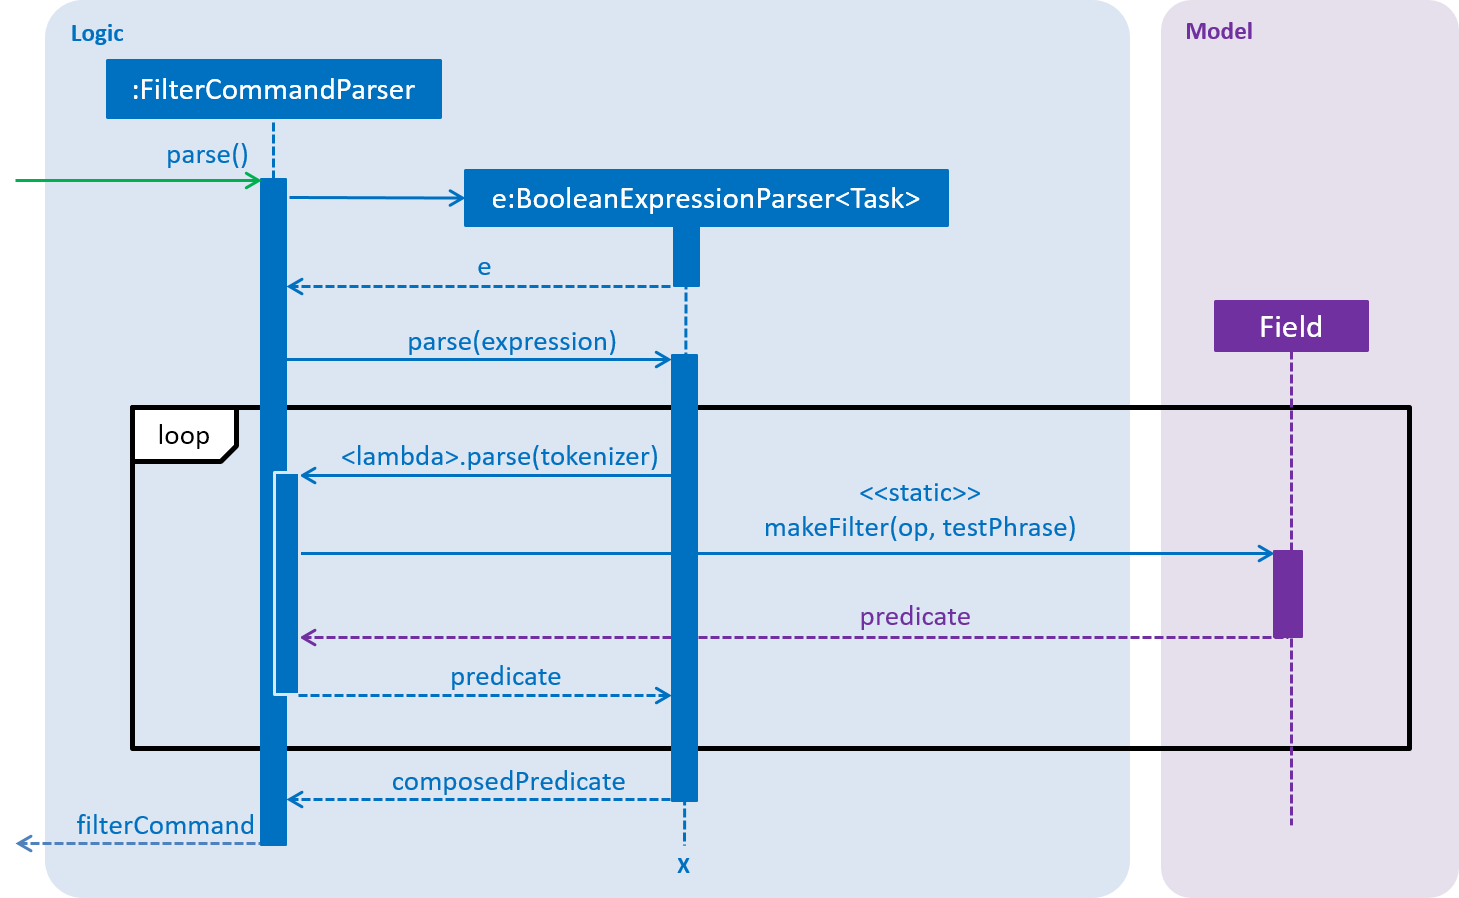
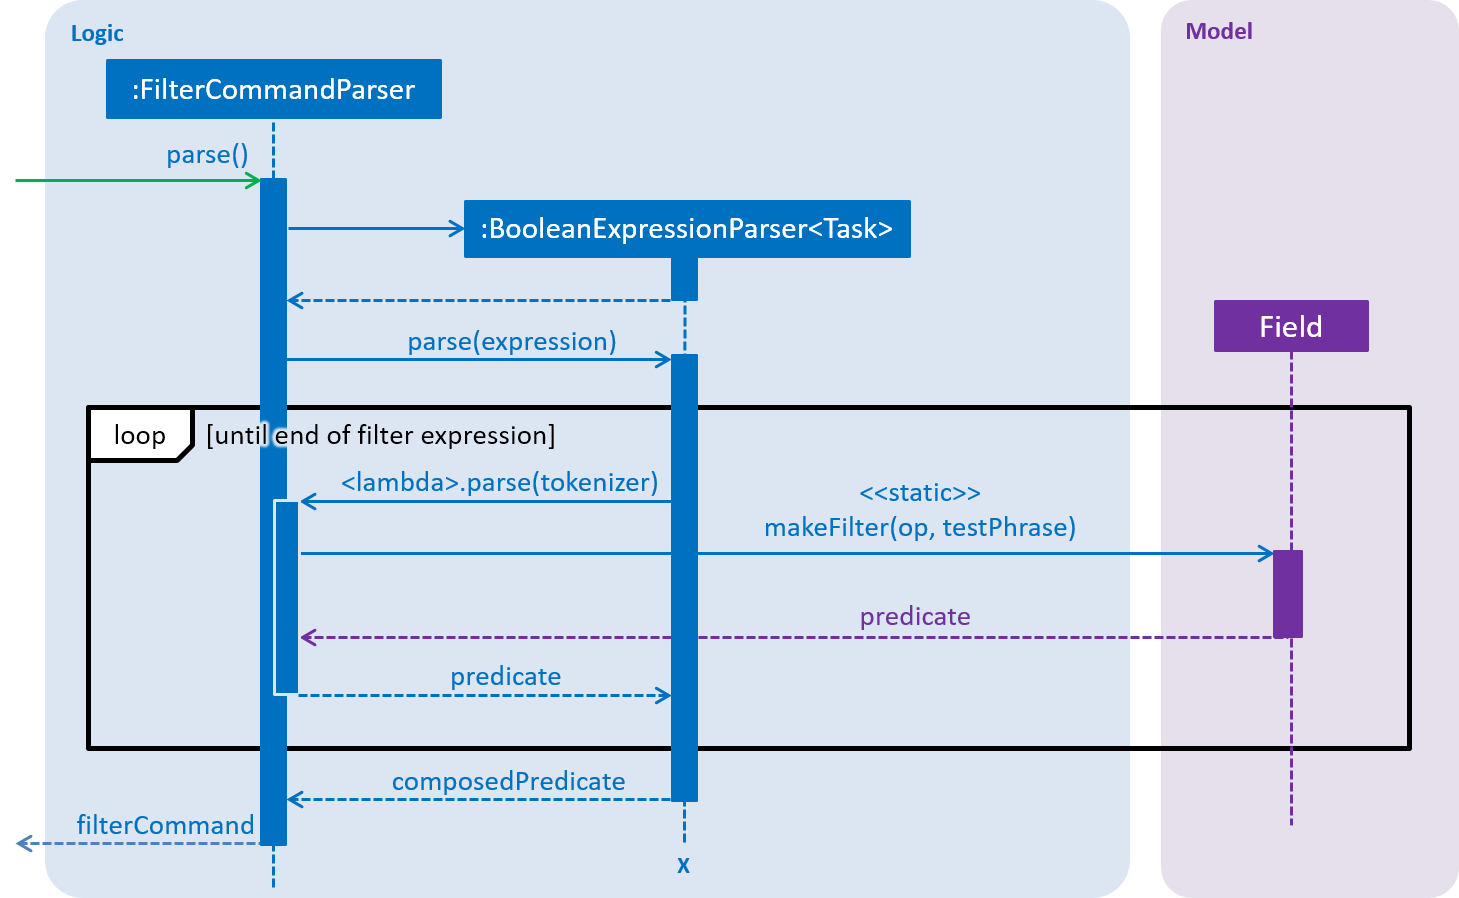
Rebuild pages at b0dab1d311fea3625518b826826fd3e513df9803

Changed region(s): [[0.1851, 0.1871, 0.6477, 0.343], [0.0617, 0.4365, 0.4626, 0.8419]]

diff --git a/team/btzy.html b/team/btzy.html
@@ -642,7 +642,7 @@ The second component in the list above also accepts a filter unit that contains 
 </div>
 </div>
 <div class="paragraph">
-<p>The above diagram shows the simplified sequence of operations to parse a filter expression into a predicate for non-set fields.  Take note of the following simplifications in the sequence diagram above:</p>
+<p>The above diagram shows the simplified sequence of operations to parse a filter expression into a predicate for non-set-based fields.  Take note of the following simplifications in the sequence diagram above:</p>
 </div>
 <div class="ulist">
 <ul>
@@ -805,6 +805,11 @@ The <code>StringTokenizer</code> class is also used in two other places&#8201;&#
 <div class="paragraph">
 <p>The following diagram is describes a filter unit that is specified using the extended full syntax for sets:</p>
 </div>
+<div class="imageblock">
+<div class="content">
+<img src="../images/FilterUnitDiagramSet.png" alt="FilterUnitDiagramSet" width="250">
+</div>
+</div>
 <div class="paragraph">
 <p>As shown in the diagram above, a filter unit (using the full syntax or extended syntax) consists of these parts:</p>
 </div>
@@ -962,25 +967,10 @@ The rules for quoted strings for the string tokenizer applies here as well, beca
 <div class="sect4">
 <h5 id="set-operator"><a class="link" href="#set-operator">Set operator</a></h5>
 <div class="paragraph">
-<p>Set-based fields can specify an additional level of comparison - how the task&#8217;s set compares with the specified set.  It is distinct from the filter operator because the filter operator is used to compare each individual item in the set (in the context of the given field), while the set operator is used to compare at the set level (which is same regardless of the given field).</p>
+<p>Set-based fields can specify an additional level of comparison - how the task&#8217;s set compares with the specified set.  It is distinct from the filter operator because the filter operator is used to compare each individual item in the set (in the context of the given field), while the set operator is used to compare at the set level (which is same regardless of which field is being compared).</p>
 </div>
 <div class="paragraph">
-<p>For set-based fields (e.g. tags), the <code>&lt;</code>, <code>=</code>, <code>&gt;</code> set operators represent <em>subset</em>, <em>equivalence</em>, and <em>superset</em> relations respectively.  Each individual item is compared using the specified filter operator as specified in the previous <em>Filter operator</em> section.</p>
-</div>
-<div class="paragraph">
-<p>Just like the filter operator, there is a convenience set operator (<code>:</code>), and it is an alias for <code>&gt;</code>.</p>
-</div>
-<div class="admonitionblock note">
-<table>
-<tr>
-<td class="icon">
-<i class="fa icon-note" title="Note"></i>
-</td>
-<td class="content">
-The set operator is orthogonal to the filter operator, and hence they may be combined in any way.  Furthermore, when the set operator is omitted for a set-based field, the convenience set operator is implied.
-</td>
-</tr>
-</table>
+<p>For set-based fields (e.g. tags), the filter unit parser does not invoke the field-specific parser directly.  Instead, control goes through the set parser, which is described in the <em>Set parser</em> section below.</p>
 </div>
 </div>
 <div class="sect4">
@@ -1002,7 +992,36 @@ The set operator is orthogonal to the filter operator, and hence they may be com
 <div class="sect3">
 <h4 id="set-parser"><a class="link" href="#set-parser">Set parser</a></h4>
 <div class="paragraph">
-<p>The set parser is implemented in the <code>makeFilter()</code> method of the <code>seedu.address.model.util.SetUtil</code> class.  It parses the comma-separated list (i.e. the test phrase) using a new instance of <code>StringTokenizer</code>, and then uses reflection to invoke the relevant field-specific parser for each item in the comma-separated list.</p>
+<p>The set parser tokenizes the given test phrase, and feeds each item into the field-specific parser separately.</p>
+</div>
+<div class="paragraph">
+<p>The <code>&lt;</code>, <code>=</code>, <code>&gt;</code> set operators represent <em>subset</em>, <em>equivalence</em>, and <em>superset</em> relations respectively.  Each individual item is compared using the specified filter operator as specified in the previous <em>Filter operator</em> section.</p>
+</div>
+<div class="paragraph">
+<p>Just like the filter operator, there is a convenience set operator (<code>:</code>), and it is an alias for <code>&gt;</code>.</p>
+</div>
+<div class="admonitionblock note">
+<table>
+<tr>
+<td class="icon">
+<i class="fa icon-note" title="Note"></i>
+</td>
+<td class="content">
+The set operator is orthogonal to the filter operator, and hence they may be combined in any way.  Furthermore, when the set operator is omitted for a set-based field, the convenience set operator is implied.
+</td>
+</tr>
+</table>
+</div>
+<div class="paragraph">
+<p>The set parser is implemented in the <code>makeFilter()</code> method of the <code>seedu.address.model.util.SetUtil</code> class.  It parses the comma-separated list (i.e. the test phrase) using a new instance of <code>StringTokenizer</code>, and then uses reflection to invoke the relevant field-specific parser for each item in the comma-separated list.  This is illustrated in the sequence diagram below:</p>
+</div>
+<div class="imageblock">
+<div class="content">
+<img src="../images/FilterOperationSequenceDiagramSet.png" alt="FilterOperationSequenceDiagramSet" width="800">
+</div>
+</div>
+<div class="paragraph">
+<p>As with the sequence diagram for non-set-based fields, the above diagram is simplified and omits details about how the test phrase is split into tokens using a new <code>StringTokenizer</code> instance.  "Field" represents any filterable set-based field&#8201;&#8212;&#8201;<code>Tag</code> or <code>Attachment</code>.</p>
 </div>
 <div class="admonitionblock note">
 <table>
@@ -1237,4 +1256,4 @@ In total, there are around 15 distinct kinds of error conditions when parsing a 
 </div>
 </div>
 </div>
-</div></div><div id="footer"><div class="container"><div id="footer-text">Last updated 2018-11-06 15:25:14 UTC</div></div></div></body></html>
+</div></div><div id="footer"><div class="container"><div id="footer-text">Last updated 2018-11-06 15:55:43 UTC</div></div></div></body></html>

diff --git a/DeveloperGuide.html b/DeveloperGuide.html
@@ -1531,7 +1531,7 @@ The second component in the list above also accepts a filter unit that contains 
 </div>
 </div>
 <div class="paragraph">
-<p>The above diagram shows the simplified sequence of operations to parse a filter expression into a predicate for non-set fields.  Take note of the following simplifications in the sequence diagram above:</p>
+<p>The above diagram shows the simplified sequence of operations to parse a filter expression into a predicate for non-set-based fields.  Take note of the following simplifications in the sequence diagram above:</p>
 </div>
 <div class="ulist">
 <ul>
@@ -1694,6 +1694,11 @@ The <code>StringTokenizer</code> class is also used in two other places&#8201;&#
 <div class="paragraph">
 <p>The following diagram is describes a filter unit that is specified using the extended full syntax for sets:</p>
 </div>
+<div class="imageblock">
+<div class="content">
+<img src="images/FilterUnitDiagramSet.png" alt="FilterUnitDiagramSet" width="250">
+</div>
+</div>
 <div class="paragraph">
 <p>As shown in the diagram above, a filter unit (using the full syntax or extended syntax) consists of these parts:</p>
 </div>
@@ -1851,25 +1856,10 @@ The rules for quoted strings for the string tokenizer applies here as well, beca
 <div class="sect4">
 <h5 id="set-operator"><a class="link" href="#set-operator">4.6.4.4. Set operator</a></h5>
 <div class="paragraph">
-<p>Set-based fields can specify an additional level of comparison - how the task&#8217;s set compares with the specified set.  It is distinct from the filter operator because the filter operator is used to compare each individual item in the set (in the context of the given field), while the set operator is used to compare at the set level (which is same regardless of the given field).</p>
+<p>Set-based fields can specify an additional level of comparison - how the task&#8217;s set compares with the specified set.  It is distinct from the filter operator because the filter operator is used to compare each individual item in the set (in the context of the given field), while the set operator is used to compare at the set level (which is same regardless of which field is being compared).</p>
 </div>
 <div class="paragraph">
-<p>For set-based fields (e.g. tags), the <code>&lt;</code>, <code>=</code>, <code>&gt;</code> set operators represent <em>subset</em>, <em>equivalence</em>, and <em>superset</em> relations respectively.  Each individual item is compared using the specified filter operator as specified in the previous <em>Filter operator</em> section.</p>
-</div>
-<div class="paragraph">
-<p>Just like the filter operator, there is a convenience set operator (<code>:</code>), and it is an alias for <code>&gt;</code>.</p>
-</div>
-<div class="admonitionblock note">
-<table>
-<tr>
-<td class="icon">
-<i class="fa icon-note" title="Note"></i>
-</td>
-<td class="content">
-The set operator is orthogonal to the filter operator, and hence they may be combined in any way.  Furthermore, when the set operator is omitted for a set-based field, the convenience set operator is implied.
-</td>
-</tr>
-</table>
+<p>For set-based fields (e.g. tags), the filter unit parser does not invoke the field-specific parser directly.  Instead, control goes through the set parser, which is described in the <em>Set parser</em> section below.</p>
 </div>
 </div>
 <div class="sect4">
@@ -1891,7 +1881,36 @@ The set operator is orthogonal to the filter operator, and hence they may be com
 <div class="sect3">
 <h4 id="set-parser"><a class="link" href="#set-parser">4.6.5. Set parser</a></h4>
 <div class="paragraph">
-<p>The set parser is implemented in the <code>makeFilter()</code> method of the <code>seedu.address.model.util.SetUtil</code> class.  It parses the comma-separated list (i.e. the test phrase) using a new instance of <code>StringTokenizer</code>, and then uses reflection to invoke the relevant field-specific parser for each item in the comma-separated list.</p>
+<p>The set parser tokenizes the given test phrase, and feeds each item into the field-specific parser separately.</p>
+</div>
+<div class="paragraph">
+<p>The <code>&lt;</code>, <code>=</code>, <code>&gt;</code> set operators represent <em>subset</em>, <em>equivalence</em>, and <em>superset</em> relations respectively.  Each individual item is compared using the specified filter operator as specified in the previous <em>Filter operator</em> section.</p>
+</div>
+<div class="paragraph">
+<p>Just like the filter operator, there is a convenience set operator (<code>:</code>), and it is an alias for <code>&gt;</code>.</p>
+</div>
+<div class="admonitionblock note">
+<table>
+<tr>
+<td class="icon">
+<i class="fa icon-note" title="Note"></i>
+</td>
+<td class="content">
+The set operator is orthogonal to the filter operator, and hence they may be combined in any way.  Furthermore, when the set operator is omitted for a set-based field, the convenience set operator is implied.
+</td>
+</tr>
+</table>
+</div>
+<div class="paragraph">
+<p>The set parser is implemented in the <code>makeFilter()</code> method of the <code>seedu.address.model.util.SetUtil</code> class.  It parses the comma-separated list (i.e. the test phrase) using a new instance of <code>StringTokenizer</code>, and then uses reflection to invoke the relevant field-specific parser for each item in the comma-separated list.  This is illustrated in the sequence diagram below:</p>
+</div>
+<div class="imageblock">
+<div class="content">
+<img src="images/FilterOperationSequenceDiagramSet.png" alt="FilterOperationSequenceDiagramSet" width="800">
+</div>
+</div>
+<div class="paragraph">
+<p>As with the sequence diagram for non-set-based fields, the above diagram is simplified and omits details about how the test phrase is split into tokens using a new <code>StringTokenizer</code> instance.  "Field" represents any filterable set-based field&#8201;&#8212;&#8201;<code>Tag</code> or <code>Attachment</code>.</p>
 </div>
 <div class="admonitionblock note">
 <table>
@@ -3855,4 +3874,4 @@ Expected: Similar to previous.</p>
 </div>
 </div>
 </div>
-</div></div><div id="footer"><div class="container"><div id="footer-text">Last updated 2018-11-06 15:25:14 UTC</div></div></div></body></html>
+</div></div><div id="footer"><div class="container"><div id="footer-text">Last updated 2018-11-06 15:55:43 UTC</div></div></div></body></html>

diff --git a/team/johndoe.html b/team/johndoe.html
@@ -466,4 +466,4 @@ If the <code>currentStatePointer</code> is at index <code>taskCollectionStateLis
 <p><em>{Optionally, you may include other projects in your portfolio.}</em></p>
 </div>
 </div>
-</div></div><div id="footer"><div class="container"><div id="footer-text">Last updated 2018-11-06 15:25:14 UTC</div></div></div></body></html>
+</div></div><div id="footer"><div class="container"><div id="footer-text">Last updated 2018-11-06 15:55:43 UTC</div></div></div></body></html>

diff --git a/ContactUs.html b/ContactUs.html
@@ -12,4 +12,4 @@
 <p><strong>Email us</strong> : You can also reach us at <code>damith [at] comp.nus.edu.sg</code></p>
 </li>
 </ul>
-</div></div><div id="footer"><div class="container"><div id="footer-text">Last updated 2018-11-06 15:25:14 UTC</div></div></div></body></html>
+</div></div><div id="footer"><div class="container"><div id="footer-text">Last updated 2018-11-06 15:55:43 UTC</div></div></div></body></html>

diff --git a/LearningOutcomes.html b/LearningOutcomes.html
@@ -542,4 +542,4 @@ class gives some examples of how to use <em>Equivalence Partitions</em>, <em>Bou
 </div>
 </div>
 </div>
-</div></div><div id="footer"><div class="container"><div id="footer-text">Last updated 2018-11-06 15:25:14 UTC</div></div></div></body></html>
+</div></div><div id="footer"><div class="container"><div id="footer-text">Last updated 2018-11-06 15:55:43 UTC</div></div></div></body></html>

diff --git a/team/ranaldmiao.html b/team/ranaldmiao.html
@@ -613,4 +613,4 @@ The <a href="#Filtering a list of tasks: <code>filter</code>"><code>filter</code
 </div>
 </div>
 </div>
-</div></div><div id="footer"><div class="container"><div id="footer-text">Last updated 2018-11-06 15:25:14 UTC</div></div></div></body></html>
+</div></div><div id="footer"><div class="container"><div id="footer-text">Last updated 2018-11-06 15:55:43 UTC</div></div></div></body></html>

diff --git a/team/sidhant007.html b/team/sidhant007.html
@@ -546,4 +546,4 @@ A <code>NullPointerException</code> is raised in case the <code>SortCommand</cod
 </div>
 </div>
 </div>
-</div></div><div id="footer"><div class="container"><div id="footer-text">Last updated 2018-11-06 15:25:14 UTC</div></div></div></body></html>
+</div></div><div id="footer"><div class="container"><div id="footer-text">Last updated 2018-11-06 15:55:43 UTC</div></div></div></body></html>

diff --git a/team/sijie123.html b/team/sijie123.html
@@ -735,4 +735,4 @@ If the user attempts to import a new task that conflicts with an existing task, 
 </div>
 </div>
 </div>
-</div></div><div id="footer"><div class="container"><div id="footer-text">Last updated 2018-11-06 15:25:14 UTC</div></div></div></body></html>
+</div></div><div id="footer"><div class="container"><div id="footer-text">Last updated 2018-11-06 15:55:43 UTC</div></div></div></body></html>

diff --git a/UsingGradle.html b/UsingGradle.html
@@ -255,4 +255,4 @@ See <code>build.gradle</code> &#8594; <code>allprojects</code> &#8594; <code>dep
 </ul>
 </div>
 </div>
-</div></div><div id="footer"><div class="container"><div id="footer-text">Last updated 2018-11-06 15:25:14 UTC</div></div></div></body></html>
+</div></div><div id="footer"><div class="container"><div id="footer-text">Last updated 2018-11-06 15:55:43 UTC</div></div></div></body></html>

diff --git a/UsingNetlify.html b/UsingNetlify.html
@@ -123,4 +123,4 @@ The publish directory is the directory in which the built HTML documentation res
 </ol>
 </div>
 </div>
-</div></div><div id="footer"><div class="container"><div id="footer-text">Last updated 2018-11-06 15:25:14 UTC</div></div></div></body></html>
+</div></div><div id="footer"><div class="container"><div id="footer-text">Last updated 2018-11-06 15:55:43 UTC</div></div></div></body></html>

diff --git a/UsingCoveralls.html b/UsingCoveralls.html
@@ -96,4 +96,4 @@ If you have not set up Travis CI, see <a href="UsingTravis.html">UsingTravis.ado
 </ol>
 </div>
 </div>
-</div></div><div id="footer"><div class="container"><div id="footer-text">Last updated 2018-11-06 15:25:14 UTC</div></div></div></body></html>
+</div></div><div id="footer"><div class="container"><div id="footer-text">Last updated 2018-11-06 15:55:43 UTC</div></div></div></body></html>

diff --git a/UsingTravis.html b/UsingTravis.html
@@ -280,4 +280,4 @@ Suggested change: Remove the codacy badge from <code>README</code>.</p>
 </div>
 </div>
 </div>
-</div></div><div id="footer"><div class="container"><div id="footer-text">Last updated 2018-11-06 15:25:14 UTC</div></div></div></body></html>
+</div></div><div id="footer"><div class="container"><div id="footer-text">Last updated 2018-11-06 15:55:43 UTC</div></div></div></body></html>
